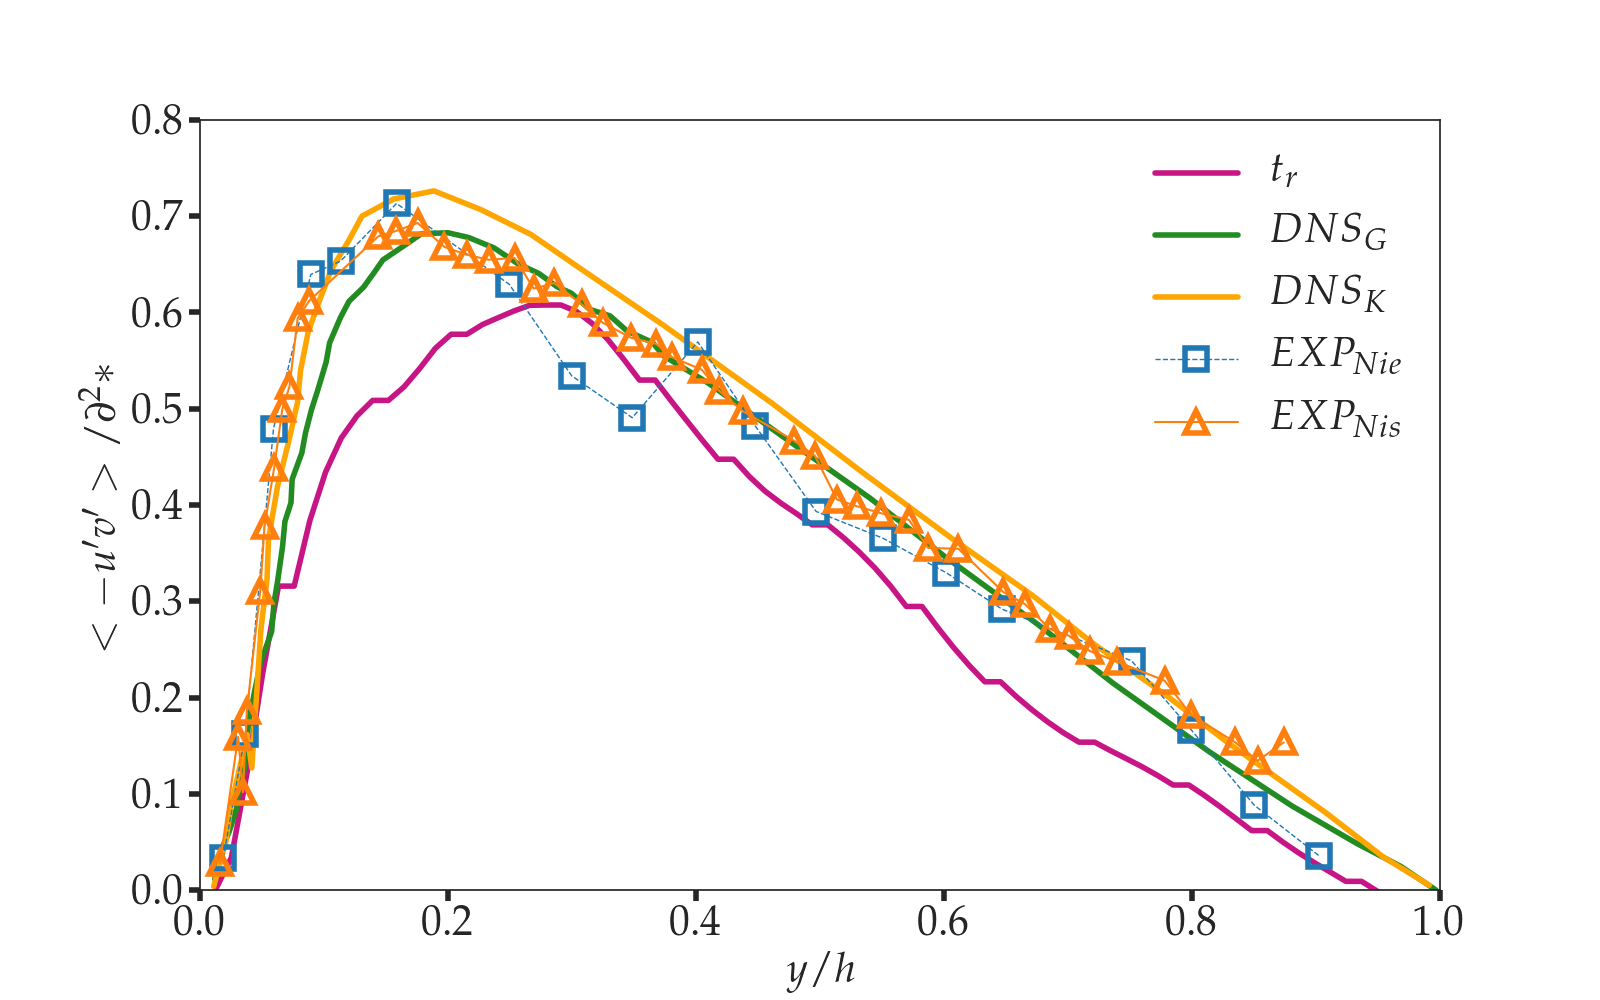
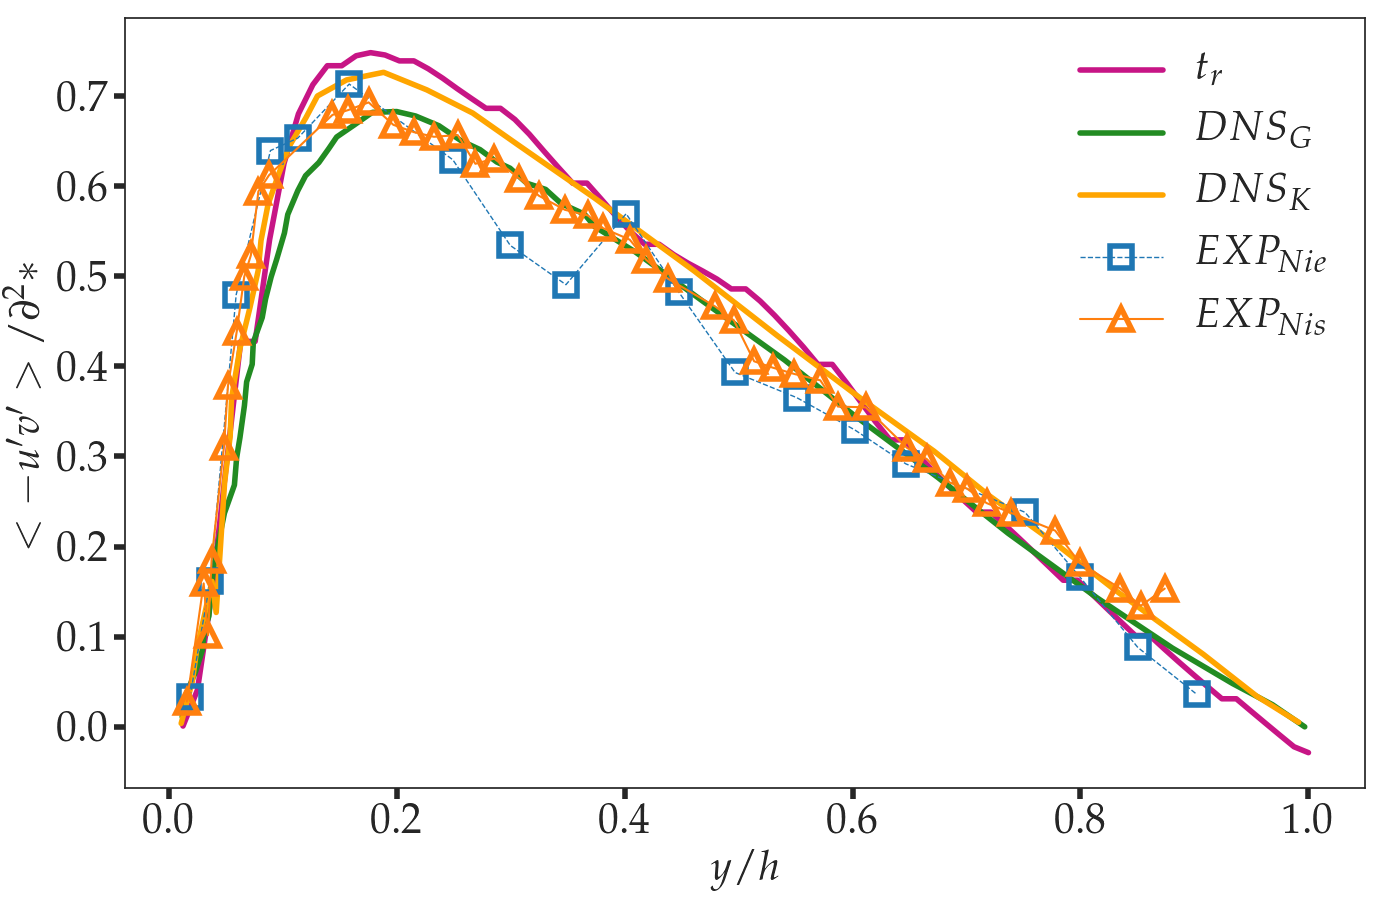
update new plot

diff --git a/userSetUV/main.py b/userSetUV/main.py
@@ -38,7 +38,7 @@ def main():
     parameterFileBasename = sys.argv[1]
     saveDir = sys.argv[2]
     uTau=0.038
-    uTau=0.045
+    #uTau=0.045
 
     simu_module = __import__("parameters_"+parameterFileBasename)
     simu_parameters = simu_module.parameters
@@ -49,22 +49,21 @@ def main():
     x=-outerCoordData['rByD']*2+1.0
     y=-outerCoordData['mean']/uTau**2#*max(outerCoordData['mean'])#/0.045    
     #ax1.plot(x,y,label='simu t=%.1f'%simu_module.parameters['dataEntry']['timeStep'],linewidth=2)
-    ax1.plot(x,y,label=r'$t_r$',linewidth=4,color='mediumvioletred')
+    #ax1.plot(x,y,label=r'$t_r$',linewidth=4,color='mediumvioletred')
 
     y_sum = np.zeros(y.shape)
     counter=0
 
-#    for i in range(1,12,1):
-#        counter = counter + 1
-#        dict_=copy.deepcopy(simu_module.parameters)
-#        dict_['dataEntry']['timeStep']=i
-#        l_ = reader.pre_check(dict_,'lineOn2Diagonals','U')
-#        outerCoordData = reader.process(dict_,validDataList=l_,colonNb=1,innerVar=False)
-#        x=outerCoordData['rByD']*2
-#        y=outerCoordData['mean']/uTau
-#        y_sum = y_sum + y
-#        ax1.plot(x,y,label=str(i),linewidth=4,color='mediumvioletred')
-#    ax1.plot(x,y_sum/counter,label=r'$t_r$',linewidth=4,color='mediumvioletred')
+    for i in range(6,13,1):
+        counter = counter + 1
+        dict_=copy.deepcopy(simu_module.parameters)
+        dict_['dataEntry']['timeStep']=i
+        l_ = reader.pre_check(dict_,'set4uv','uv_mean')
+        outerCoordData = reader.process(dict_,validDataList=l_,colonNb=1,innerVar=False)
+        y=-outerCoordData['mean']/uTau**2
+        y_sum = y_sum + y
+#        ax1.plot(x,y,label=str(i),linewidth=4)#,color='mediumvioletred')
+    ax1.plot(x,y_sum/counter,label=r'$t_r$',linewidth=4,color='mediumvioletred')
     output2Txt('uv_reynoldsStress',x,y_sum/counter)
 
     x_DNS, y_DNS = rdb.Gavrilakis1992.Fig9a_DNS_G()
@@ -87,6 +86,6 @@ def main():
     ax1.tick_params(axis='x', which='minor', direction='out', length=8, width=2)
     ax1.legend(bbox_to_anchor=(1.0, 1.0), ncol=1, fancybox=True, shadow=True)
 
-    fig1.savefig('uv_reynoldsStress.png')
+    fig1.savefig('uv_reynoldsStress.png',bbox_inches='tight')
 
 main()

diff --git a/userSetUV/parameters_t_r-2a_1_gradP0p703125.py b/userSetUV/parameters_t_r-2a_1_gradP0p703125.py
@@ -22,7 +22,7 @@ sampling={
 # data entry parameters
 
 dataEntry={
-        'timeStep':12,
+        'timeStep':11,
         'chunkStep':40,
         'NbOfFiles':161,
         'path':database[alias]['targetDir']
